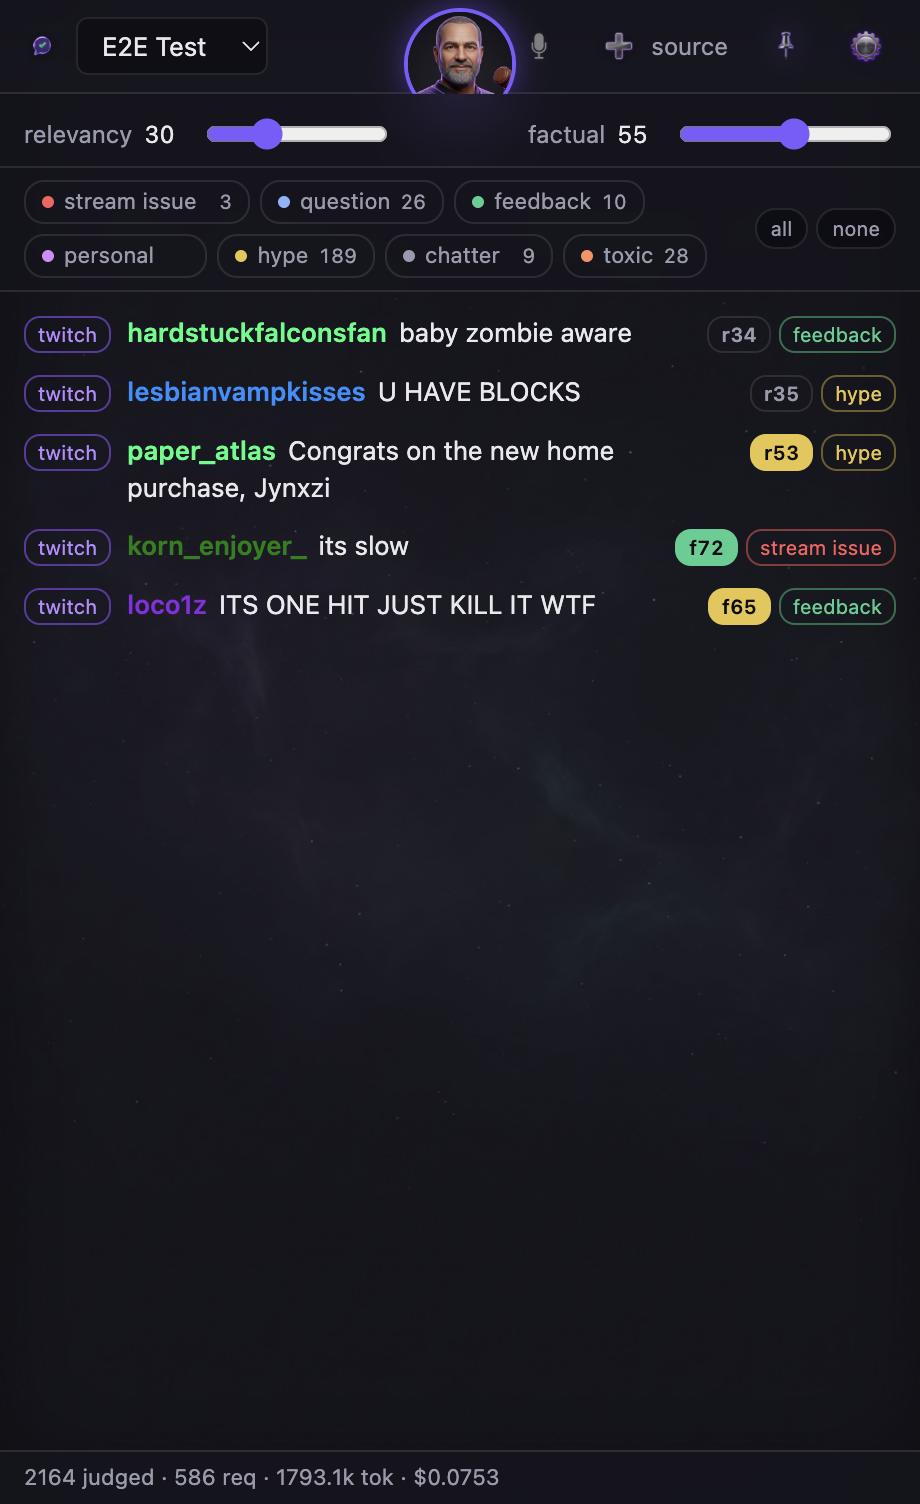
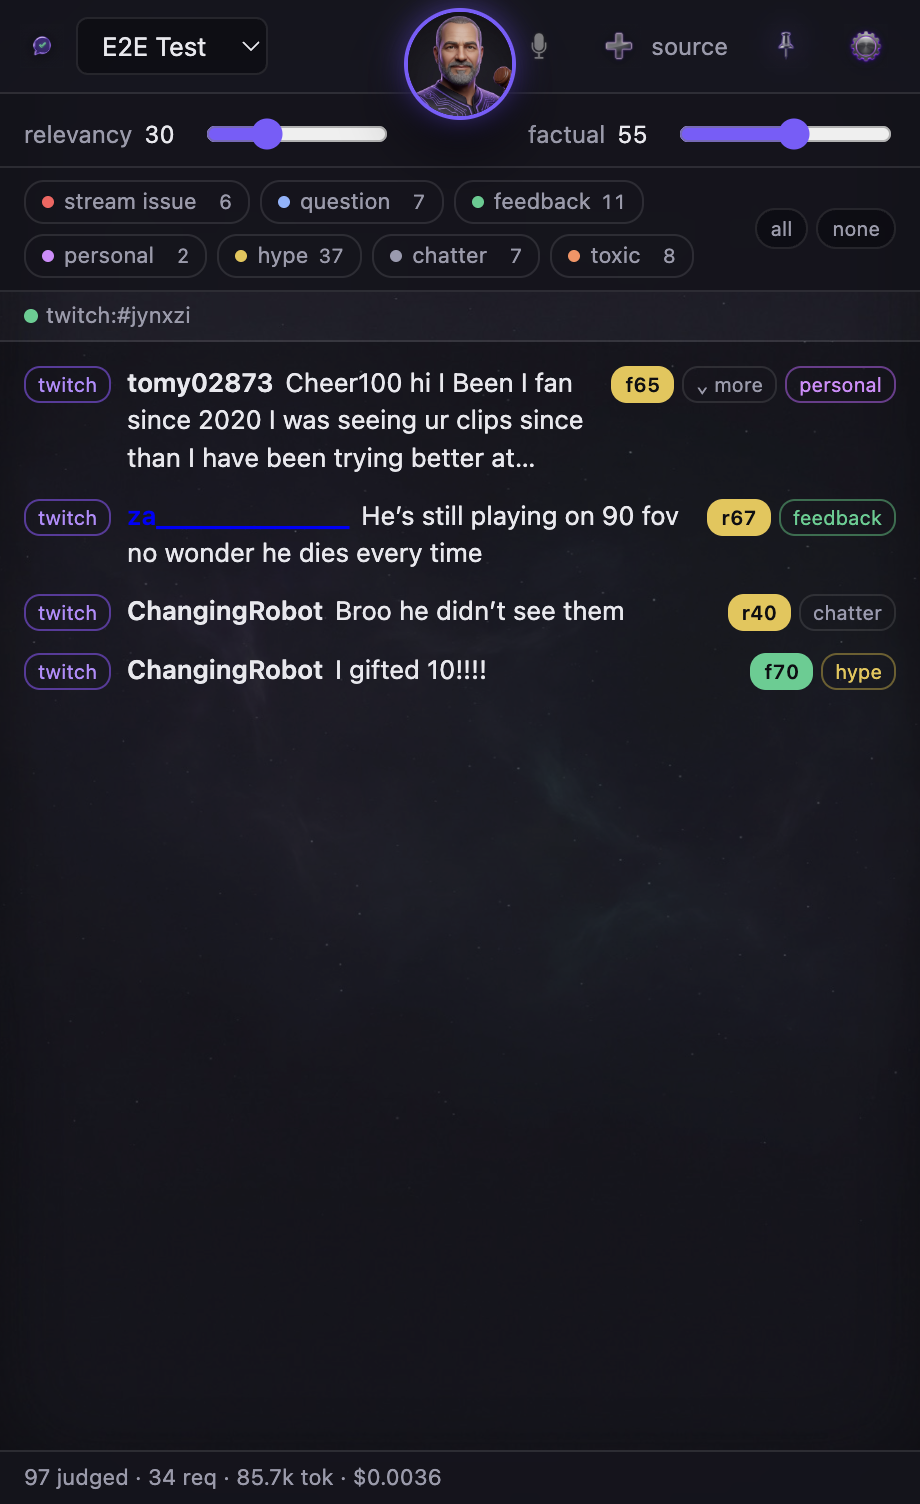
Raise the Jev Judge coin above the filter rows + deeper drop shadow
The controls/tagbar backdrop-filters create sibling stacking contexts that
painted over the coin's overhang, clipping him at the header's bottom edge.
Topbar now sits at z-index 5 (overlays bumped to 20 to stay above it), and
the coin carries a layered drop shadow so it reads as floating on top.

README: new header close-up shot, refreshed dual-slider/firehose shots from
a live #jynxzi session with the fixed coin, captions updated to match.

diff --git a/renderer/style.css b/renderer/style.css
@@ -35,6 +35,9 @@ body { display: flex; flex-direction: column; }
   border-bottom: 1px solid var(--border);
   -webkit-app-region: drag;
   position: relative;
+  /* Above #controls/#tagbar (their backdrop-filters make sibling stacking
+     contexts) so the Jev coin's overhang is never cut off by the filter rows */
+  z-index: 5;
 }
 
 /* The Jev Judge coin: centered in the header, overhanging below it. Eyes open
@@ -54,7 +57,9 @@ body { display: flex; flex-direction: column; }
   z-index: 6;
   border: 2px solid var(--accent);
   background: #0e0e12;
-  box-shadow: 0 0 16px rgba(124, 92, 255, 0.55), 0 4px 14px rgba(0, 0, 0, 0.6);
+  /* deep drop shadow sells the coin floating above the filter rows */
+  box-shadow: 0 0 16px rgba(124, 92, 255, 0.55), 0 6px 14px rgba(0, 0, 0, 0.85),
+    0 14px 28px rgba(0, 0, 0, 0.55);
   transition: border-color 0.25s, box-shadow 0.25s;
 }
 #jev-toggle img, #jev-toggle video {
@@ -68,7 +73,10 @@ body { display: flex; flex-direction: column; }
   transform-origin: 50% 22%;
 }
 #jev-toggle video.hidden { display: none; }
-#jev-toggle.off { border-color: var(--border); box-shadow: 0 4px 14px rgba(0, 0, 0, 0.6); }
+#jev-toggle.off {
+  border-color: var(--border);
+  box-shadow: 0 6px 14px rgba(0, 0, 0, 0.85), 0 14px 28px rgba(0, 0, 0, 0.55);
+}
 #jev-toggle.off img { filter: grayscale(1) brightness(0.6); }
 #jev-toggle:hover { border-color: var(--accent); }
 
@@ -358,6 +366,7 @@ body.show-timestamps .msg .time { display: inline; }
   display: flex;
   align-items: center;
   justify-content: center;
+  z-index: 20; /* above the raised #topbar */
 }
 #overlay.hidden { display: none; }
 #panel {
@@ -411,7 +420,7 @@ body.show-timestamps .msg .time { display: inline; }
   display: flex;
   align-items: center;
   justify-content: center;
-  z-index: 10;
+  z-index: 20; /* above the raised #topbar */
 }
 #user-overlay.hidden { display: none; }
 #user-card {

diff --git a/README.md b/README.md
@@ -57,6 +57,9 @@ session: 45 messages judged for $0.0013.*
   Judging continues in the background either way, so reopening his eyes
   restores a fully-curated feed instantly. The voicelines are the avatar
   itself speaking ([masky.ai](https://masky.ai) render, played in the coin).
+  The coin floats *above* the filter rows — overhanging the header with a
+  drop shadow — so he reads as the switch sitting on top of everything he
+  controls.
 - The **tag bar** filters by message kind instead: click any combination of
   kind chips (each shows a live count) to see only messages Jev tagged with
   one of those kinds at >50% confidence — `all` / `none` bulk-toggle. While
@@ -74,14 +77,22 @@ session: 45 messages judged for $0.0013.*
 including a 26-relevancy "bro??" question the slider would have hidden.*
 
 <p align="center">
+  <img src="docs/screenshots/jev-coin.png" width="560" alt="The Jev Judge coin overhanging the dual sliders and tag bar" />
+</p>
+
+*The command deck: the Jev Judge coin presiding over the dual sliders and the
+tag bar, with the mic toggle at his side.*
+
+<p align="center">
   <img src="docs/screenshots/jev-dual.png" width="420" alt="Dual sliders: relevancy 30 AND factual 55 on a live chat" />
   <img src="docs/screenshots/jev-off.png" width="420" alt="Jev's eyes closed: the raw firehose, filters hidden" />
 </p>
 
-*Left: both sliders active on a live 25k-viewer chat — the surviving messages
-passed relevancy ≥30 AND factual ≥55, chips showing the binding dimension
-(`f72` on "its slow", a verifiable stream report). Right: the Judge's eyes are
-closed — greyscale coin, no filter rows, every message flowing through.*
+*Left: both sliders active on a live [twitch.tv/jynxzi](https://twitch.tv/jynxzi)
+chat — 97 messages judged, four survived relevancy ≥30 AND factual ≥55, chips
+showing the binding dimension (`f70` on "I gifted 10!!!!", a verifiable claim;
+`r67` on a FOV critique). Right: the Judge's eyes are closed — greyscale coin,
+no filter rows, the raw firehose of `f0` emote spam flowing straight through.*
 
 ## Judging against your voice
 
